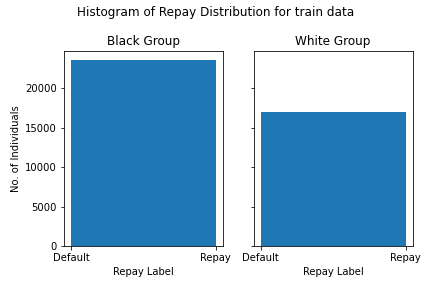
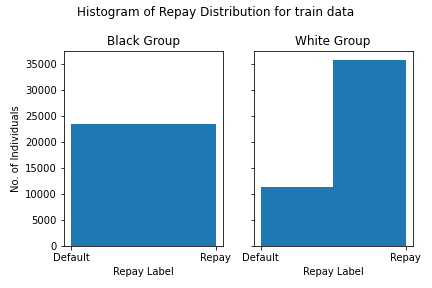
balancing of test_set

diff --git a/scripts/classification_utils.py b/scripts/classification_utils.py
@@ -65,7 +65,6 @@ def adjust_demographic_ratio(x_data, y_data, race_ratio):
     idx_0 = idx_0[:num_samples_0]
     idx_1 = idx_1[:num_samples_1]
     idx = sorted(np.concatenate((idx_0,idx_1)))
-
     return x_data[idx,:], y_data[idx]
 
 def adjust_black_label_ratio(x_data, y_data, label_ratio):
@@ -79,8 +78,6 @@ def adjust_black_label_ratio(x_data, y_data, label_ratio):
     idx_1N = np.where((x_data[:, 1] == 1) & (y_data == 0))[0]
     idx_1P = np.where((x_data[:, 1] == 1) & (y_data == 1))[0]
 
-    print(num_0N,num_0P)
-
     if len(idx_0P) < num_0P:
         num_0P = len(idx_0P)
         num_0N = int(num_0P/label_ratio[1] * label_ratio[0])
@@ -91,7 +88,6 @@ def adjust_black_label_ratio(x_data, y_data, label_ratio):
     idx_0N = idx_0N[:num_0N]
     idx_0P = idx_0P[:num_0P]
 
-    print('Black N/P:',num_0N,'/',num_0P)
 
     idx = sorted(np.concatenate((idx_0N,idx_0P,idx_1N,idx_1P)))
 
@@ -112,8 +108,6 @@ def balance_between_group_label_ratio(x_data, y_data, label_ratio):
     idx_0P = np.where((x_data[:, 1] == 0) & (y_data == 1))[0]
     idx_1P = np.where((x_data[:, 1] == 1) & (y_data == 1))[0]
 
-    #print(len(idx_0N),len(idx_0P),len(idx_1N),len(idx_1P))
-    print(num_0N,num_0P,num_1N,num_1P)
 
     if len(idx_0P) < num_0P:
         num_0P = len(idx_0P)
@@ -143,8 +137,6 @@ def balance_between_group_label_ratio(x_data, y_data, label_ratio):
     idx_0P = idx_0P[:num_0P]
     idx_1P = idx_1P[:num_1P]
 
-    print('Black N/P:',num_0N,'/',num_0P,'White N/P:',num_1N,'/',num_1P)
-
     idx = sorted(np.concatenate((idx_0N,idx_0P,idx_1N,idx_1P)))
     return x_data[idx,:], y_data[idx]
 
@@ -166,6 +158,13 @@ def balance_label_ratio(x_data, y_data):
     idx = sorted(np.concatenate((idx_0N,idx_0P,idx_1N,idx_1P)))
     return x_data[idx,:], y_data[idx]
 
+def print_type_ratios(x_data,y_data):
+    idx_0N = np.where((x_data[:, 1] == 0) & (y_data == 0))[0]
+    idx_1N = np.where((x_data[:, 1] == 1) & (y_data == 0))[0]
+    idx_0P = np.where((x_data[:, 1] == 0) & (y_data == 1))[0]
+    idx_1P = np.where((x_data[:, 1] == 1) & (y_data == 1))[0]
+    print('Black N/P:',len(idx_0N),'/',len(idx_0P),'White N/P:',len(idx_1N),'/',len(idx_1P))
+
 def prep_data(data, test_size, demo_ratio,label_ratio,balance_test_set, weight_index):
     # might need to include standardscaler here
 
@@ -178,15 +177,20 @@ def prep_data(data, test_size, demo_ratio,label_ratio,balance_test_set, weight_i
 
 
     X_train, y_train = adjust_black_label_ratio(X_train, y_train, label_ratio)
+    print('Training set:', len(y_train))
+    print_type_ratios(X_train,y_train)
     if balance_test_set == True:
         X_test, y_test = balance_label_ratio(X_test, y_test)
-    print('Training set:', len(y_train))
     print('Testing set:', len(y_test))
+    print_type_ratios(X_test,y_test)
 
+    print('Adjusting demo ratio:')
     X_train, y_train = adjust_demographic_ratio(X_train, y_train, demo_ratio[0])
     X_test, y_test = adjust_demographic_ratio(X_test, y_test, demo_ratio[1])
     print('Training set:', len(y_train))
+    print_type_ratios(X_train,y_train)
     print('Testing set:', len(y_test))
+    print_type_ratios(X_test,y_test)
 
 
 
